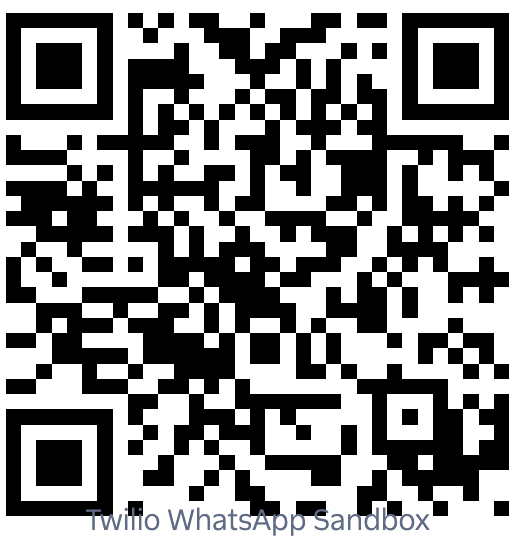
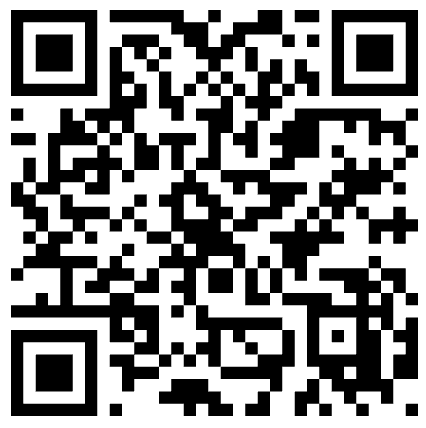
Update Twilio sandbox join code and QR code for new account

diff --git a/pehlimadad/src/lang.js b/pehlimadad/src/lang.js
@@ -98,7 +98,7 @@ const M = {
     pa: "⚠ ਸੇਵਾ ਉਪਲਬਧ ਨਹੀਂ. ਐਮਰਜੈਂਸੀ ਵਿੱਚ 108 'ਤੇ ਕਾਲ ਕਰੋ.",
   },
   locationReceived: {
-    hi: '📍 Location mil gayi! Ab yeh batayein:\n• Mariz ki umra\n• Yeh takleef kab se hai',
+    hi: '📍 स्थान मिल गया! अब बताएं:\n• मरीज़ की उम्र\n• यह तकलीफ़ कब से है',
     en: "📍 Location received! Now please tell me:\n• Patient's age\n• Since how long are the symptoms present",
     bn: '📍 অবস্থান পাওয়া গেছে! এখন জানান:\n• রোগীর বয়স\n• কতদিন ধরে সমস্যা হচ্ছে',
     ta: '📍 இருப்பிடம் கிடைத்தது! இப்போது தெரிவிக்கவும்:\n• நோயாளியின் வயது\n• எத்தனை நாட்களாக பிரச்சினை',
@@ -110,7 +110,7 @@ const M = {
     pa: '📍 ਟਿਕਾਣਾ ਮਿਲ ਗਿਆ! ਹੁਣ ਦੱਸੋ:\n• ਮਰੀਜ਼ ਦੀ ਉਮਰ\n• ਕਿੰਨੇ ਦਿਨਾਂ ਤੋਂ ਤਕਲੀਫ਼ ਹੈ',
   },
   locationAsk: {
-    hi: 'Location mil gayi! Ab bataiye — kya takleef hai? (voice note ya text mein)',
+    hi: 'स्थान मिल गया! अब बताएं — क्या तकलीफ़ है? (आवाज़ या टेक्स्ट में)',
     en: 'Location received! Now please describe the emergency (voice or text).',
     bn: 'অবস্থান পাওয়া গেছে! এখন বলুন — কী সমস্যা? (ভয়েস বা টেক্সটে)',
     ta: 'இருப்பிடம் கிடைத்தது! இப்போது சொல்லுங்கள் — என்ன பிரச்சினை? (குரல் அல்லது உரை)',
@@ -122,7 +122,7 @@ const M = {
     pa: 'ਟਿਕਾਣਾ ਮਿਲ ਗਿਆ! ਹੁਣ ਦੱਸੋ — ਕੀ ਤਕਲੀਫ਼ ਹੈ? (ਵੌਇਸ ਜਾਂ ਟੈਕਸਟ)',
   },
   reminder: {
-    hi: 'Kripya batayein: jagah ka naam, zila, rajya (ya WhatsApp location 📎), mariz ki umra, aur kitne din se takleef hai.',
+    hi: 'कृपया बताएं: जगह का नाम, ज़िला, राज्य (या WhatsApp location 📎), मरीज़ की उम्र, और कितने दिन से तकलीफ़ है।',
     en: 'Please share: place name/district/state (or WhatsApp location 📎), patient age, and duration of symptoms.',
     bn: 'অনুগ্রহ করে জানান: জায়গার নাম, জেলা, রাজ্য (বা WhatsApp location 📎), রোগীর বয়স, কতদিন ধরে সমস্যা।',
     ta: 'தயவுசெய்து தெரிவிக்கவும்: இடம், மாவட்டம், மாநிலம் (அல்லது WhatsApp location 📎), நோயாளி வயது, எத்தனை நாட்களாக.',
@@ -172,7 +172,7 @@ const M = {
     ml: ' ❌ ഇപ്പോൾ അടഞ്ഞിരിക്കുന്നു', pa: ' ❌ ਹੁਣ ਬੰਦ',
   },
   facilitiesFooter: {
-    hi: '_Ayushman Bharat card saath le jaayein — sarkari hospital mein ilaj muft mein ho sakta hai._',
+    hi: '_आयुष्मान भारत कार्ड साथ ले जाएं — सरकारी अस्पताल में इलाज मुफ़्त हो सकता है।_',
     en: '_Carry your Ayushman Bharat card — govt hospitals may offer free treatment._',
     bn: '_আয়ুষ্মান ভারত কার্ড সাথে নিন — সরকারি হাসপাতালে বিনামূল্যে চিকিৎসা হতে পারে।_',
     ta: '_ஆயுஷ்மான் பாரத் அட்டை எடுத்துச் செல்லவும் — அரசு மருத்துவமனையில் இலவச சிகிச்சை கிடைக்கலாம்._',

diff --git a/pehlimadad/src/processor.js b/pehlimadad/src/processor.js
@@ -124,7 +124,7 @@ async function process(event) {
   }
 
   if (hasLocation && !hasText) {
-    await speak(phone, t('locationAsk', 'hi'), 'hi', phone);
+    await speak(phone, t('locationAsk', lang), lang, phone);
     await saveSession(phone, { ...session, locationCoords: { lat: parseFloat(latitude), lng: parseFloat(longitude) } });
     return;
   }
@@ -174,7 +174,13 @@ async function runFullAssessment(phone, session, detailsText, coords, transcript
 
   const assessment = parseAssessment(rawResponse);
   const cleanResponse = stripAssessmentBlock(rawResponse);
+  if (!assessment) {
+    console.warn(`[PROCESSOR][${phone}] parseAssessment failed — rawResponse head:`, rawResponse.slice(0, 300));
+  }
   console.log(`[PROCESSOR][${phone}] assessment:`, JSON.stringify(assessment));
+
+  // locationQuery from assessment; fall back to detailsText so we always have something for facilities
+  const locationQuery = assessment?.locationQuery || detailsText;
 
   let resolvedCoords = coords;
   if (!resolvedCoords && assessment?.locationQuery) {
@@ -184,7 +190,7 @@ async function runFullAssessment(phone, session, detailsText, coords, transcript
     console.log(`[PROCESSOR][${phone}] no coords — assessment.locationQuery:`, assessment?.locationQuery);
   }
 
-  const isWestBengal = lang === 'bn' && /west bengal/i.test(assessment?.locationQuery || '');
+  const isWestBengal = lang === 'bn' && /west bengal/i.test(locationQuery || '');
   const fullMessage = transcriptNote + cleanResponse + '\n\n' + getEmergencyFooter(lang, isWestBengal);
 
   const newHistory = [
@@ -219,7 +225,7 @@ async function runFullAssessment(phone, session, detailsText, coords, transcript
 
   // 3. Nearby facilities
   await new Promise((r) => setTimeout(r, 800));
-  await sendFacilitiesMessage(phone, resolvedCoords, assessment?.locationQuery, lang);
+  await sendFacilitiesMessage(phone, resolvedCoords, locationQuery, lang);
 
   // 4. Voice note last
   const audioUrl = await ttsPromise;
@@ -227,6 +233,9 @@ async function runFullAssessment(phone, session, detailsText, coords, transcript
     await new Promise((r) => setTimeout(r, 500));
     await sendMessage(phone, '', audioUrl);
   }
+
+  // Reset session after turn 2 is complete so the next message starts fresh
+  await resetConversation(phone);
 }
 
 async function sendFacilitiesMessage(phone, coords, locationQuery, lang = 'hi') {

diff --git a/pehlimadad/src/triage.js b/pehlimadad/src/triage.js
@@ -155,21 +155,30 @@ function buildSummaryMessages(history) {
 // ── Assessment parsing ────────────────────────────────────────────────────────
 
 function parseAssessment(text) {
-  const match = text.match(
-    /---ASSESSMENT---\s*\nSEVERITY:\s*(\w+)\s*\nFACILITY_PRIMARY:\s*(\w+)\s*\nFACILITY_SECONDARY:\s*(\w+)\s*\nLOCATION_QUERY:\s*([^\n]+)\s*\n---END---/
-  );
-  if (!match) return null;
-  const locationQuery = match[4].trim();
+  const severityMatch = text.match(/SEVERITY:\s*(\w+)/);
+  const facilityPrimaryMatch = text.match(/FACILITY_PRIMARY:\s*(\w+)/);
+  const facilitySecondaryMatch = text.match(/FACILITY_SECONDARY:\s*(\w+)/);
+  const locationQueryMatch = text.match(/LOCATION_QUERY:\s*([^\r\n]+)/);
+
+  if (!severityMatch || !facilityPrimaryMatch || !facilitySecondaryMatch || !locationQueryMatch) return null;
+
+  const locationQuery = locationQueryMatch[1].trim();
   return {
-    severity: match[1].trim().toUpperCase(),
-    facilityPrimary: match[2].trim().toUpperCase(),
-    facilitySecondary: match[3].trim().toUpperCase(),
+    severity: severityMatch[1].trim().toUpperCase(),
+    facilityPrimary: facilityPrimaryMatch[1].trim().toUpperCase(),
+    facilitySecondary: facilitySecondaryMatch[1].trim().toUpperCase(),
     locationQuery: locationQuery === 'UNKNOWN' ? null : locationQuery,
   };
 }
 
 function stripAssessmentBlock(text) {
-  return text.replace(/---ASSESSMENT---[\s\S]*?---END---\n?/, '').trim();
+  // Primary: model outputs ---END--- as instructed
+  let result = text.replace(/---ASSESSMENT---[\s\S]*?---END---\n?/, '');
+  // Fallback: model omits ---END---, strip through the last known field (LOCATION_QUERY)
+  if (result === text) {
+    result = text.replace(/---ASSESSMENT---[\s\S]*?LOCATION_QUERY:[^\n]*\n?/, '');
+  }
+  return result.trim();
 }
 
 // ── Facilities message (sent as a separate WhatsApp message) ─────────────────

diff --git a/pehlimadad/src/facilities.js b/pehlimadad/src/facilities.js
@@ -12,7 +12,7 @@ const FOOTER = {
 
   en: `📞 *Emergency Numbers:* 🚑 *108* (Ambulance) | 🤱 *102* (Maternal) | 🚐 *104* (Mobile Health) | 🆘 *112* (National)
 
-💳 Carry your Ayushman Bharat card — _govt hospital mein ilaj muft mein ho sakta hai_
+💳 Carry your Ayushman Bharat card — _free treatment available at govt hospitals_
 🙏 Call your local ASHA/ANM worker — _they can accompany you_`,
 
   bn: `📞 *জরুরি নম্বর:* 🚑 *108* (অ্যাম্বুলেন্স) | 🤱 *102* (মাতৃত্ব) | 🚐 *104* (মোবাইল স্বাস্থ্য) | 🆘 *112* (জাতীয়)

diff --git a/pehlimadad/web/components/Hero.jsx b/pehlimadad/web/components/Hero.jsx
@@ -2,7 +2,7 @@
 import { motion, useScroll, useTransform } from 'framer-motion';
 import { useRef, useEffect, useState } from 'react';
 
-const WHATSAPP_LINK = 'https://wa.me/14155238886?text=join%20swam-quarter';
+const WHATSAPP_LINK = 'https://wa.me/14155238886?text=join%20ordinary-upper';
 
 const chatMessages = [
   { out: true,  text: '🎤 Voice note · 0:08', sub: null, delay: 0.8 },

diff --git a/pehlimadad/src/transcribe.js b/pehlimadad/src/transcribe.js
@@ -14,7 +14,7 @@ const transcribeClient = new TranscribeClient({ region: process.env.AWS_REGION |
 
 const BUCKET = process.env.S3_BUCKET || 'pehlimadad-audio-temp-dev';
 const POLL_INTERVAL_MS = 3000;
-const MAX_POLLS = 10; // 30 seconds max
+const MAX_POLLS = 20; // 60 seconds max
 
 /**
  * Download audio from Twilio MediaUrl (authenticated)

diff --git a/pehlimadad/web/components/TryItNow.jsx b/pehlimadad/web/components/TryItNow.jsx
@@ -1,7 +1,7 @@
 'use client';
 import { motion } from 'framer-motion';
 
-const SANDBOX_CODE = 'swam-quarter';
+const SANDBOX_CODE = 'ordinary-upper';
 const WHATSAPP_LINK = `https://wa.me/14155238886?text=join%20${SANDBOX_CODE}`;
 
 export default function TryItNow() {

diff --git a/README.md b/README.md
@@ -24,7 +24,7 @@ This solution cannot be built without Generative AI. No rule-based system can au
 The bot is live on WhatsApp. No app download, no registration.
 
 1. Open WhatsApp and message **+1 415 523 8886**
-2. Send the join code: `join swam-quarter`
+2. Send the join code: `join ordinary-upper`
 3. Send a voice note or text describing a health emergency in any Indian language
 
 **MVP Link:** https://pehlimadad.in
@@ -174,7 +174,7 @@ https://<your-api-gateway-url>/webhook
 
 ### 5. Test
 
-Send `join <your-sandbox-code>` to +1 415 523 8886 on WhatsApp, then send a voice note.
+Send `join ordinary-upper` to +1 415 523 8886 on WhatsApp, then send a voice note.
 
 ---
 
